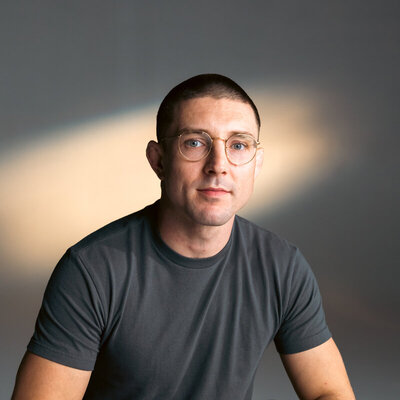
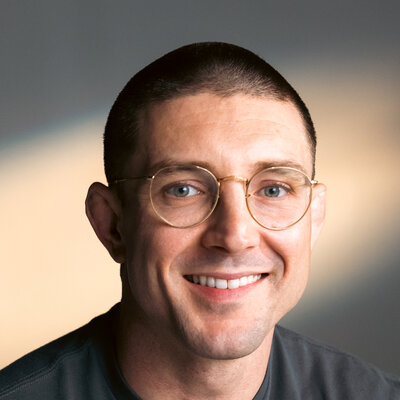
Fix team photo containers: circular, uniform aspect ratio
Container now border-radius:50%, aspect-ratio:1, max-width:220px
to match the pre-cropped circular PNGs from FMG.

diff --git a/index.html b/index.html
@@ -110,7 +110,7 @@ nav.s .nk a:hover{color:var(--navy)}
 .team{background:var(--white);border-top:1px solid var(--border);border-bottom:1px solid var(--border)}
 .team-grid{display:grid;grid-template-columns:repeat(4,1fr);gap:20px;margin-top:40px}
 .tm{text-align:center}
-.tm-photo{background:var(--warm);border-radius:var(--r);aspect-ratio:3/4;margin-bottom:16px;display:flex;align-items:center;justify-content:center;border:1px solid var(--border);overflow:hidden}
+.tm-photo{background:var(--warm);border-radius:50%;aspect-ratio:1;margin-bottom:16px;display:flex;align-items:center;justify-content:center;border:1px solid var(--border);overflow:hidden;max-width:220px;margin-left:auto;margin-right:auto}
 .tm-ph{font-family:var(--font-m);font-size:10px;color:var(--text-3);letter-spacing:.1em;text-transform:uppercase}
 .tm h4{font-size:17px;margin-bottom:2px}
 .tm-role{font-size:13px;color:var(--text-2)}
